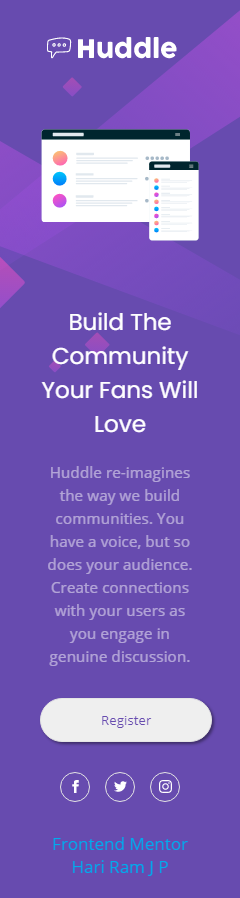
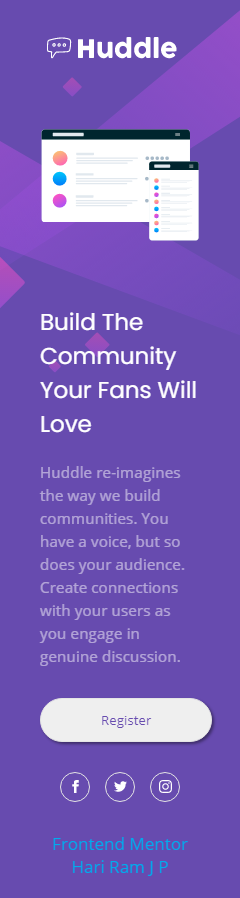
Update readme.md file

Changed region(s): [[0.175, 0.343, 0.8167, 0.7483], [0.7583, 0.7171, 0.7875, 0.7483]]

diff --git a/css/styles.css b/css/styles.css
@@ -242,4 +242,16 @@ main .description button:active {
     padding: 0 !important;
   }
 }
+
+@media (max-width: 279px) {
+  .description {
+    text-align: left !important;
+  }
+}
+
+@media (max-width: 230px) {
+  .description button {
+    padding: 1.2rem 5rem !important;
+  }
+}
 /*# sourceMappingURL=styles.css.map */

diff --git a/scss/partials/_media.scss b/scss/partials/_media.scss
@@ -75,3 +75,15 @@
     }
   }
 }
+
+@media (max-width: 279px) {
+  .description {
+    text-align: left !important;
+  }
+}
+
+@media (max-width: 230px) {
+  .description button {
+    padding: 1.2rem 5rem !important;
+  }
+}

diff --git a/readme.md b/readme.md
@@ -34,5 +34,4 @@
 [link]: https://hariramjp777.github.io "Live Site"
 [at1440px]: ./assets/designs/at1440px.png "At 1440px"
 [at375px]: ./assets/designs/at375px.png "At 375px"
-[at320px]: ./assets/designs/at320px.png "At 320px"
 [at240px]: ./assets/designs/at240px.png "At 240px"
